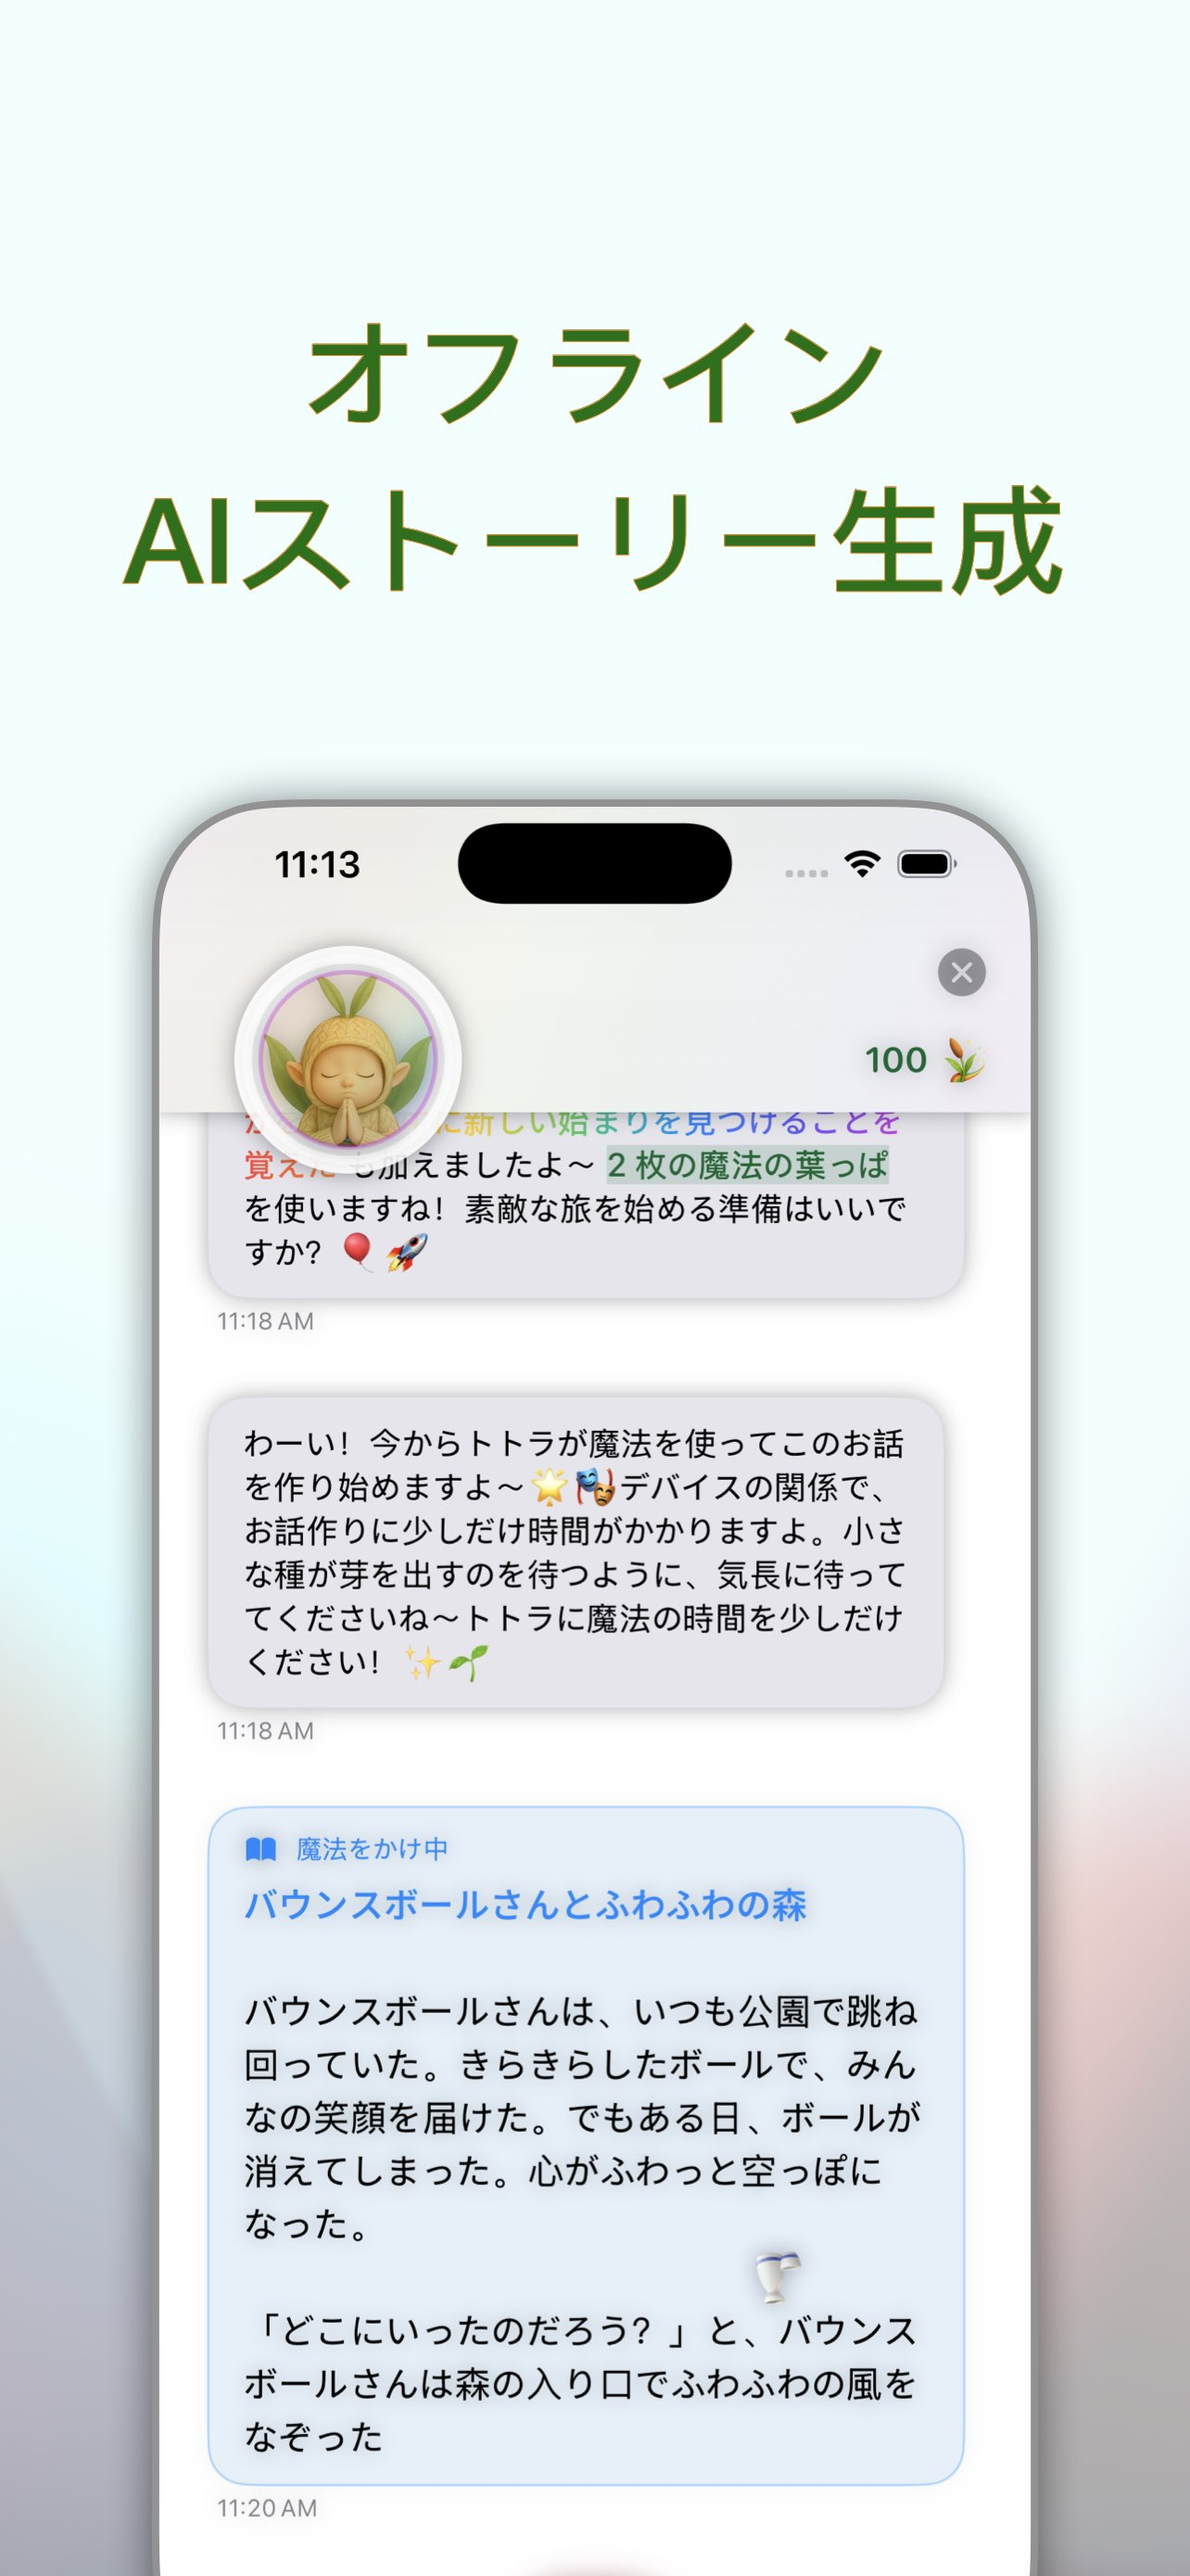
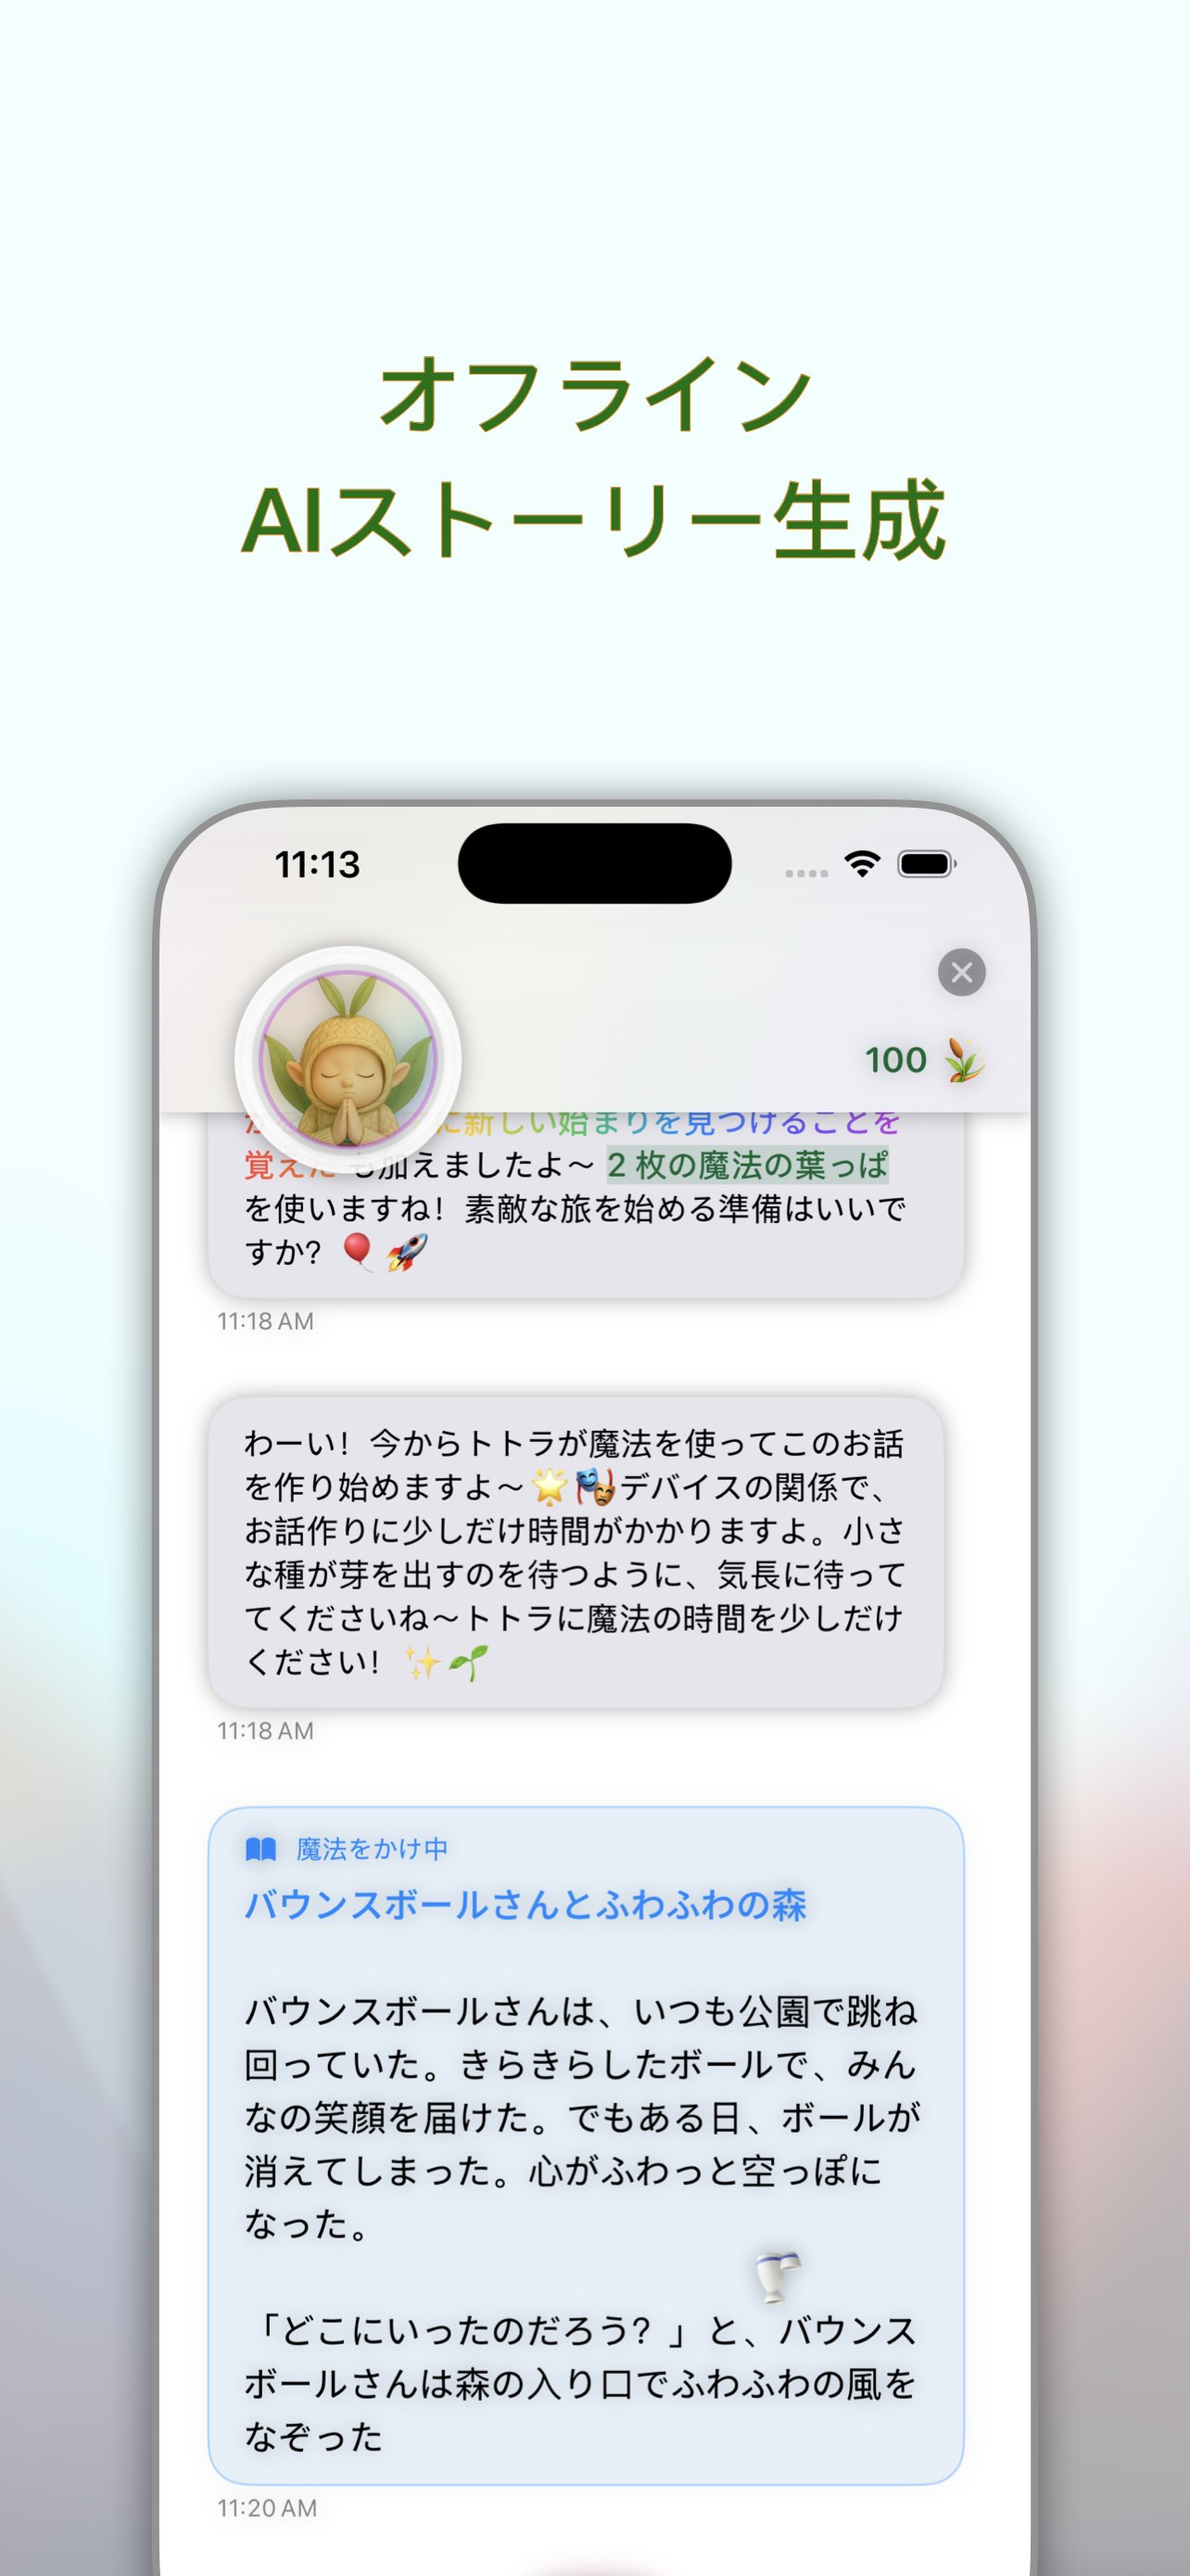
lazy load screenshots

Changed region(s): [[0.0935, 0.1238, 0.9034, 0.2477]]

diff --git a/script.js b/script.js
@@ -214,10 +214,57 @@ class ScreenshotCarousel {
         this.currentLanguage = this.detectLanguage();
         this.isAutoPlaying = false;
         this.autoPlayInterval = null;
+        this.totalImagesToLoad = 0;
+        this.imagesLoaded = 0;
+        this.allImagesLoaded = false;
         this.init();
     }
 
     // Dynamically count JPEG files in screenshot directories
+    // Track image loading progress
+    trackImageLoad() {
+        this.imagesLoaded++;
+        console.log(`Image loaded: ${this.imagesLoaded}/${this.totalImagesToLoad}`);
+
+        if (this.imagesLoaded === this.totalImagesToLoad && this.totalImagesToLoad > 0) {
+            this.allImagesLoaded = true;
+            console.log('All images loaded! Enabling autoscroll.');
+            this.enableAutoScroll();
+        }
+    }
+
+    resetImageTracking() {
+        this.imagesLoaded = 0;
+        this.totalImagesToLoad = 0;
+        this.allImagesLoaded = false;
+        this.disableAutoScroll();
+    }
+
+    enableAutoScroll() {
+        // Only start autoscroll if all images are loaded
+        if (this.allImagesLoaded) {
+            // Remove any existing hover listeners to prevent duplicates
+            const carousel = document.querySelector('.hero-screenshots-carousel');
+            if (carousel) {
+                const newCarousel = carousel.cloneNode(true);
+                carousel.parentNode.replaceChild(newCarousel, carousel);
+            }
+
+            setTimeout(() => this.startAutoPlay(), 2000);
+
+            // Pause on hover - add to fresh carousel element
+            const freshCarousel = document.querySelector('.hero-screenshots-carousel');
+            if (freshCarousel) {
+                freshCarousel.addEventListener('mouseenter', () => this.stopAutoPlay());
+                freshCarousel.addEventListener('mouseleave', () => this.startAutoPlay());
+            }
+        }
+    }
+
+    disableAutoScroll() {
+        this.stopAutoPlay();
+    }
+
     async loadScreenshotCounts() {
         const languageMap = this.getLanguagePathMap();
         this.screenshots = {};
@@ -397,6 +444,10 @@ class ScreenshotCarousel {
 
         console.log(`Loading ${count} screenshots for language: ${this.currentLanguage} (${useFallback ? 'using English fallback' : langPath})`);
 
+        // Reset image tracking and set expected count
+        this.resetImageTracking();
+        this.totalImagesToLoad = count;
+
         // Clear existing screenshots
         track.innerHTML = '';
 
@@ -404,27 +455,26 @@ class ScreenshotCarousel {
         for (let i = 1; i <= count; i++) {
             const slide = document.createElement('div');
             slide.className = 'screenshot-item';
+            slide.style.position = 'relative'; // Needed for absolute positioning of spinner overlay
 
-            // Add loading indicator
-            const loadingIndicator = document.createElement('div');
-            loadingIndicator.className = 'screenshot-loading';
-            loadingIndicator.innerHTML = `<div style="padding: 20px; text-align: center; color: #666; background: transparent; border-radius: 12px;">Loading screenshot ${i}...</div>`;
-            slide.appendChild(loadingIndicator);
-
+            // Create the image first
             const img = document.createElement('img');
             img.alt = `Totora App Screenshot ${i} - ${this.currentLanguage}`;
             img.className = 'screenshot-img';
 
-            // Only load the first image immediately, others use lazy loading
-            if (i === 1) {
-                img.loading = 'eager';
-                img.src = `images/screenshots/${langPath}/${i}.jpeg`;
-            } else {
-                img.loading = 'lazy';
-                img.setAttribute('data-src', `images/screenshots/${langPath}/${i}.jpeg`);
-            }
+            // Use lazy loading for all screenshots, including the first one
+            img.loading = 'lazy';
+            img.setAttribute('data-src', `images/screenshots/${langPath}/${i}.jpeg`);
 
             img.style.display = 'none'; // Hide until loaded
+
+            // Create spinner overlay
+            const spinnerOverlay = document.createElement('div');
+            spinnerOverlay.className = 'screenshot-spinner-overlay';
+            spinnerOverlay.innerHTML = `
+                <div class="screenshot-spinner"></div>
+                <div class="screenshot-spinner-text">Loading screenshot ${i}...</div>
+            `;
 
             let fallbackAttempted = false;
 
@@ -447,15 +497,16 @@ class ScreenshotCarousel {
                 } else {
                     // If first fallback fails, try different error handling
                     console.warn(`Failed to load English fallback screenshot`);
-                    // Show error message
-                    loadingIndicator.innerHTML = `<div style="padding: 20px; text-align: center; color: #999; background: transparent; border-radius: 12px;">Screenshot ${i} not available</div>`;
-                    loadingIndicator.style.display = 'block';
+                    // Show error message in spinner overlay
+                    spinnerOverlay.innerHTML = `<div style="padding: 20px; text-align: center; color: #999; background: transparent; border-radius: 12px;">Screenshot ${i} not available</div>`;
+                    spinnerOverlay.style.display = 'flex';
                 }
             });
 
             // Add load success handling
             img.addEventListener('load', () => {
-                loadingIndicator.style.display = 'none';
+                // Hide spinner overlay and show image
+                spinnerOverlay.style.display = 'none';
                 img.style.display = 'block';
                 img.classList.add('img-loaded');
 
@@ -469,12 +520,20 @@ class ScreenshotCarousel {
                     const currentLanguageCount = this.screenshots[this.currentLanguage];
 
                     if (i === currentLanguageCount && currentLanguageCount < englishCount) {
+                        // Update total images count to include additional English screenshots
+                        const additionalImages = englishCount - currentLanguageCount;
+                        this.totalImagesToLoad += additionalImages;
+                        console.log(`Adding ${additionalImages} additional English screenshots. Total to load: ${this.totalImagesToLoad}`);
+
                         // Load remaining English screenshots
                         this.loadAdditionalEnglishScreenshots(i + 1, englishCount, track);
                     }
                 } else {
                     console.log(`Successfully loaded screenshot: ${img.src}`);
                 }
+
+                // Track image loading progress
+                this.trackImageLoad();
 
                 // Force carousel update after first image loads
                 if (i === 1) {
@@ -484,6 +543,13 @@ class ScreenshotCarousel {
                 }
             });
 
+            // Add error handling to hide spinner on error too
+            img.addEventListener('error', () => {
+                spinnerOverlay.style.display = 'none';
+            });
+
+            // Append elements in correct order
+            slide.appendChild(spinnerOverlay);
             slide.appendChild(img);
             track.appendChild(slide);
         }
@@ -501,12 +567,7 @@ class ScreenshotCarousel {
         for (let i = startIndex; i <= endIndex; i++) {
             const slide = document.createElement('div');
             slide.className = 'screenshot-item';
-
-            // Add loading indicator
-            const loadingIndicator = document.createElement('div');
-            loadingIndicator.className = 'screenshot-loading';
-            loadingIndicator.innerHTML = `<div style="padding: 20px; text-align: center; color: #666; background: transparent; border-radius: 12px;">Loading English screenshot ${i}...</div>`;
-            slide.appendChild(loadingIndicator);
+            slide.style.position = 'relative'; // Needed for absolute positioning of spinner overlay
 
             const img = document.createElement('img');
             img.alt = `Totora App Screenshot ${i} - English`;
@@ -514,6 +575,14 @@ class ScreenshotCarousel {
             img.loading = 'lazy';
             img.setAttribute('data-src', `images/screenshots/en/${i}.jpeg`);
             img.style.display = 'none'; // Hide until loaded
+
+            // Create spinner overlay
+            const spinnerOverlay = document.createElement('div');
+            spinnerOverlay.className = 'screenshot-spinner-overlay';
+            spinnerOverlay.innerHTML = `
+                <div class="screenshot-spinner"></div>
+                <div class="screenshot-spinner-text">Loading English screenshot ${i}...</div>
+            `;
 
             // Add error handling for English screenshots
             img.addEventListener('error', () => {
@@ -525,22 +594,26 @@ class ScreenshotCarousel {
                     img.removeAttribute('data-src');
                     img.src = englishSrc;
                 } else {
-                    // Show error message if direct loading also fails
-                    loadingIndicator.innerHTML = `<div style="padding: 30px; background: transparent; border: 2px dashed #dee2e6; border-radius: 12px; text-align: center; color: #6c757d;">
+                    // Show error message in spinner overlay if direct loading also fails
+                    spinnerOverlay.innerHTML = `<div style="padding: 30px; background: transparent; border: 2px dashed #dee2e6; border-radius: 12px; text-align: center; color: #6c757d;">
                         <div style="font-size: 2rem; margin-bottom: 10px;">📱</div>
                         <div style="font-weight: 600; margin-bottom: 5px;">Screenshot ${i}</div>
                         <div style="font-size: 0.9rem;">Not Available</div>
                     </div>`;
-                    loadingIndicator.style.display = 'block';
+                    spinnerOverlay.style.display = 'flex';
                 }
             });
 
             // Add load success handling
             img.addEventListener('load', () => {
-                loadingIndicator.style.display = 'none';
+                // Hide spinner overlay and show image
+                spinnerOverlay.style.display = 'none';
                 img.style.display = 'block';
                 img.classList.add('img-loaded');
                 console.log(`Successfully loaded additional English screenshot: ${img.src}`);
+
+                // Track image loading progress
+                this.trackImageLoad();
 
                 // Update carousel when all images are loaded
                 if (i === endIndex) {
@@ -551,6 +624,13 @@ class ScreenshotCarousel {
                 }
             });
 
+            // Add error handling to hide spinner on error too
+            img.addEventListener('error', () => {
+                spinnerOverlay.style.display = 'none';
+            });
+
+            // Append elements in correct order
+            slide.appendChild(spinnerOverlay);
             slide.appendChild(img);
             track.appendChild(slide);
         }
@@ -605,7 +685,11 @@ class ScreenshotCarousel {
         this.currentIndex = (this.currentIndex - 1 + count) % count;
         this.updateCarousel();
         this.updateIndicators();
-        this.resetAutoPlay();
+
+        // Only reset autoplay if all images are loaded
+        if (this.allImagesLoaded) {
+            this.resetAutoPlay();
+        }
     }
 
     nextSlide() {
@@ -613,7 +697,11 @@ class ScreenshotCarousel {
         this.currentIndex = (this.currentIndex + 1) % count;
         this.updateCarousel();
         this.updateIndicators();
-        this.resetAutoPlay();
+
+        // Only reset autoplay if all images are loaded
+        if (this.allImagesLoaded) {
+            this.resetAutoPlay();
+        }
     }
 
     updateCarousel() {
@@ -667,21 +755,22 @@ class ScreenshotCarousel {
     }
 
     setupAutoPlay() {
-        // Start auto-play after a short delay to ensure screenshots are loaded
-        setTimeout(() => this.startAutoPlay(), 2000);
-
-        // Pause on hover
-        const carousel = document.querySelector('.hero-screenshots-carousel');
-        if (carousel) {
-            carousel.addEventListener('mouseenter', () => this.stopAutoPlay());
-            carousel.addEventListener('mouseleave', () => this.startAutoPlay());
-        }
+        // Don't start autoplay immediately - wait for all images to load
+        // AutoScroll will be enabled when all images are loaded via enableAutoScroll()
+        console.log('AutoPlay setup complete - waiting for all images to load before starting...');
     }
 
     startAutoPlay() {
+        // Only start autoplay if all images are loaded
+        if (!this.allImagesLoaded) {
+            console.log('Cannot start autoplay - images not fully loaded yet');
+            return;
+        }
+
         if (this.isAutoPlaying) return;
         this.isAutoPlaying = true;
         this.autoPlayInterval = setInterval(() => this.nextSlide(), 3000);
+        console.log('Autoplay started - all images loaded');
     }
 
     stopAutoPlay() {

diff --git a/styles.css b/styles.css
@@ -689,6 +689,44 @@ body {
     to { opacity: 1; }
 }
 
+/* Spinner overlay for lazy loading images */
+.screenshot-spinner-overlay {
+    position: absolute;
+    top: 0;
+    left: 0;
+    width: 100%;
+    height: 100%;
+    background: rgba(255, 255, 255, 0.95);
+    border-radius: 16px;
+    display: flex;
+    flex-direction: column;
+    align-items: center;
+    justify-content: center;
+    z-index: 10;
+    backdrop-filter: blur(4px);
+}
+
+.screenshot-spinner {
+    width: 32px;
+    height: 32px;
+    border: 3px solid rgba(52, 199, 89, 0.2);
+    border-top: 3px solid rgba(52, 199, 89, 1);
+    border-radius: 50%;
+    animation: spin 1s linear infinite;
+    margin-bottom: 12px;
+}
+
+.screenshot-spinner-text {
+    font-size: 0.875rem;
+    color: #666;
+    font-weight: 500;
+}
+
+@keyframes spin {
+    0% { transform: rotate(0deg); }
+    100% { transform: rotate(360deg); }
+}
+
 /* Screenshot placeholder styling */
 .screenshot-placeholder {
     width: 100%;
